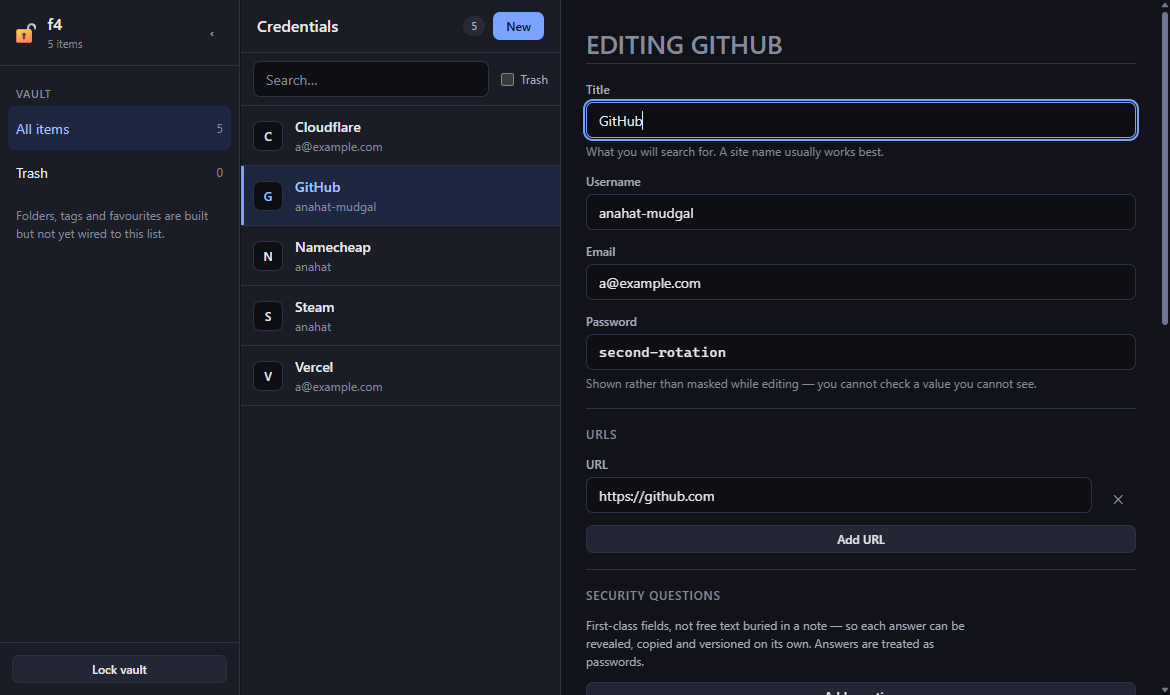
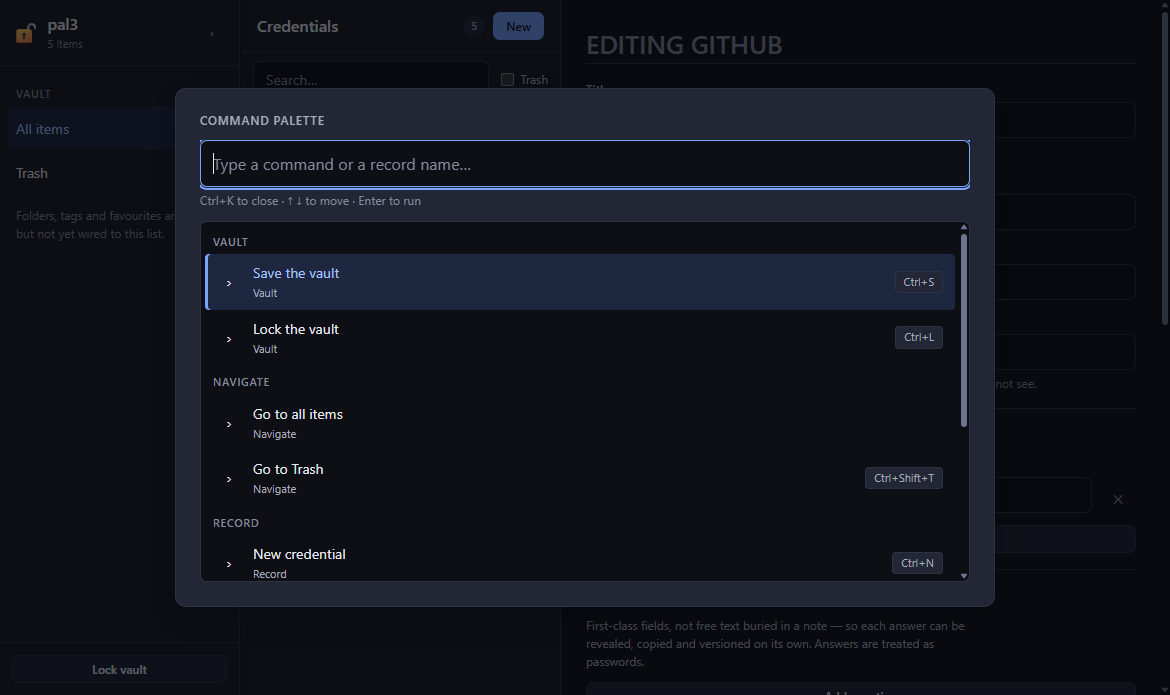
feat: mount the command palette, and drop a mac-only glyph from it
Ctrl/Cmd+K now opens the palette from anywhere in the app. Mounted beside the
toast guard rather than inside a screen: the shortcut gate already refuses to
fire vault commands while the vault is locked, so mounting per-screen would only
mean re-registering the same key listeners on every navigation.

The smoke run dispatches a real Ctrl+K rather than calling into the store, and
asserts the palette appeared. A palette that opens when a test asks it to but
not when the key is pressed is a palette nobody can use — only the key path
proves the gate, the listener and the registry all agree.

Looking at the screenshot then caught a bug every test passed through: each
command row drew `⌘`, the macOS modifier key, while its own shortcut chip
correctly read "Ctrl+S". One row claiming two platforms. It is a chevron now —
the icon exists to separate a command from a record at a glance, and the row's
title already says which it is.

Claude-Session: https://claude.ai/code/session_01LkknY42itpGfhdCuAva45D

diff --git a/src/main/smoke.ts b/src/main/smoke.ts
@@ -605,6 +605,36 @@ export function runSmokeCheck(window: BrowserWindow): void {
         );
         await new Promise<void>((resolve) => setTimeout(resolve, 250));
         await captureNamedShot(window, 'Keyhold-Screenshot-02');
+
+        // The command palette, opened by its real shortcut rather than by calling into the
+        // store. A palette that opens when a test asks it to but not when Ctrl+K is pressed
+        // is a palette nobody can use, and only the key path proves the gate, the listener
+        // and the registry all agree.
+        await window.webContents.executeJavaScript(
+          `(() => {
+            const key = new KeyboardEvent('keydown', {
+              key: 'k',
+              ctrlKey: true,
+              metaKey: false,
+              bubbles: true,
+            });
+            document.dispatchEvent(key);
+            return true;
+          })()`,
+          true
+        );
+        await new Promise<void>((resolve) => setTimeout(resolve, 300));
+        const paletteOpen = await window.webContents.executeJavaScript(
+          `document.querySelector('[role="combobox"], .kh-palette') !== null`,
+          true
+        );
+        emit(`SMOKE-CHECK palette-opens-on-its-shortcut ${String(paletteOpen === true)}`);
+        await captureNamedShot(window, 'Keyhold-Screenshot-05');
+        await window.webContents.executeJavaScript(
+          `document.dispatchEvent(new KeyboardEvent('keydown', { key: 'Escape', bubbles: true }))`,
+          true
+        );
+        await new Promise<void>((resolve) => setTimeout(resolve, 200));
         await window.webContents.executeJavaScript(
           `(() => {
             const button = [...document.querySelectorAll('.kh-timeline button')].find(

diff --git a/src/renderer/src/App.tsx b/src/renderer/src/App.tsx
@@ -6,6 +6,7 @@ import { CreateVaultScreen } from './vault/CreateVaultScreen.js';
 import { UnlockScreen } from './vault/UnlockScreen.js';
 import { VaultScreen } from './vault/VaultScreen.js';
 import { WelcomeScreen } from './vault/WelcomeScreen.js';
+import { CommandsProvider } from './commands/index.js';
 import { ClearToastsOnLock } from './vault/ClearToastsOnLock.js';
 import { useSession, watchSession, type Screen } from './vault/session-store.js';
 import './App.css';
@@ -74,6 +75,12 @@ export function App(): React.JSX.Element {
       {/* Mounted outside the switch, so it is watching across every screen change — a lock
           is precisely the moment one screen is being replaced by another. */}
       <ClearToastsOnLock />
+      {/* Likewise: the palette and the shortcut table are global, and the shortcut gate
+          already refuses to fire vault commands while the vault is locked, so mounting them
+          per-screen would only mean re-registering the same key listeners on every
+          navigation. `focusSearch` and `toggleSidebar` belong to the vault screen's own
+          state and are wired when that screen owns them. */}
+      <CommandsProvider />
       <ScreenView screen={screen} />
     </>
   );

diff --git a/src/renderer/src/commands/CommandPalette.tsx b/src/renderer/src/commands/CommandPalette.tsx
@@ -298,8 +298,14 @@ function PaletteRow({ id, item, active, onActivate, onHover }: PaletteRowProps):
       }}
       onMouseMove={onHover}
     >
+      {/*
+        A chevron, not `⌘`. The command glyph is the macOS modifier key, and on Windows it
+        sat in the same row as a chip reading "Ctrl+S" — one row claiming two platforms.
+        `aria-hidden` because the row's own title already says what it is; the icon is a
+        shape that separates a command from a record at a glance, and nothing more.
+      */}
       <span className="kh-palette__kind" aria-hidden="true">
-        {item.kind === 'command' ? '⌘' : '🔑'}
+        {item.kind === 'command' ? '›' : '🔑'}
       </span>
 
       <span className="kh-palette__text">
